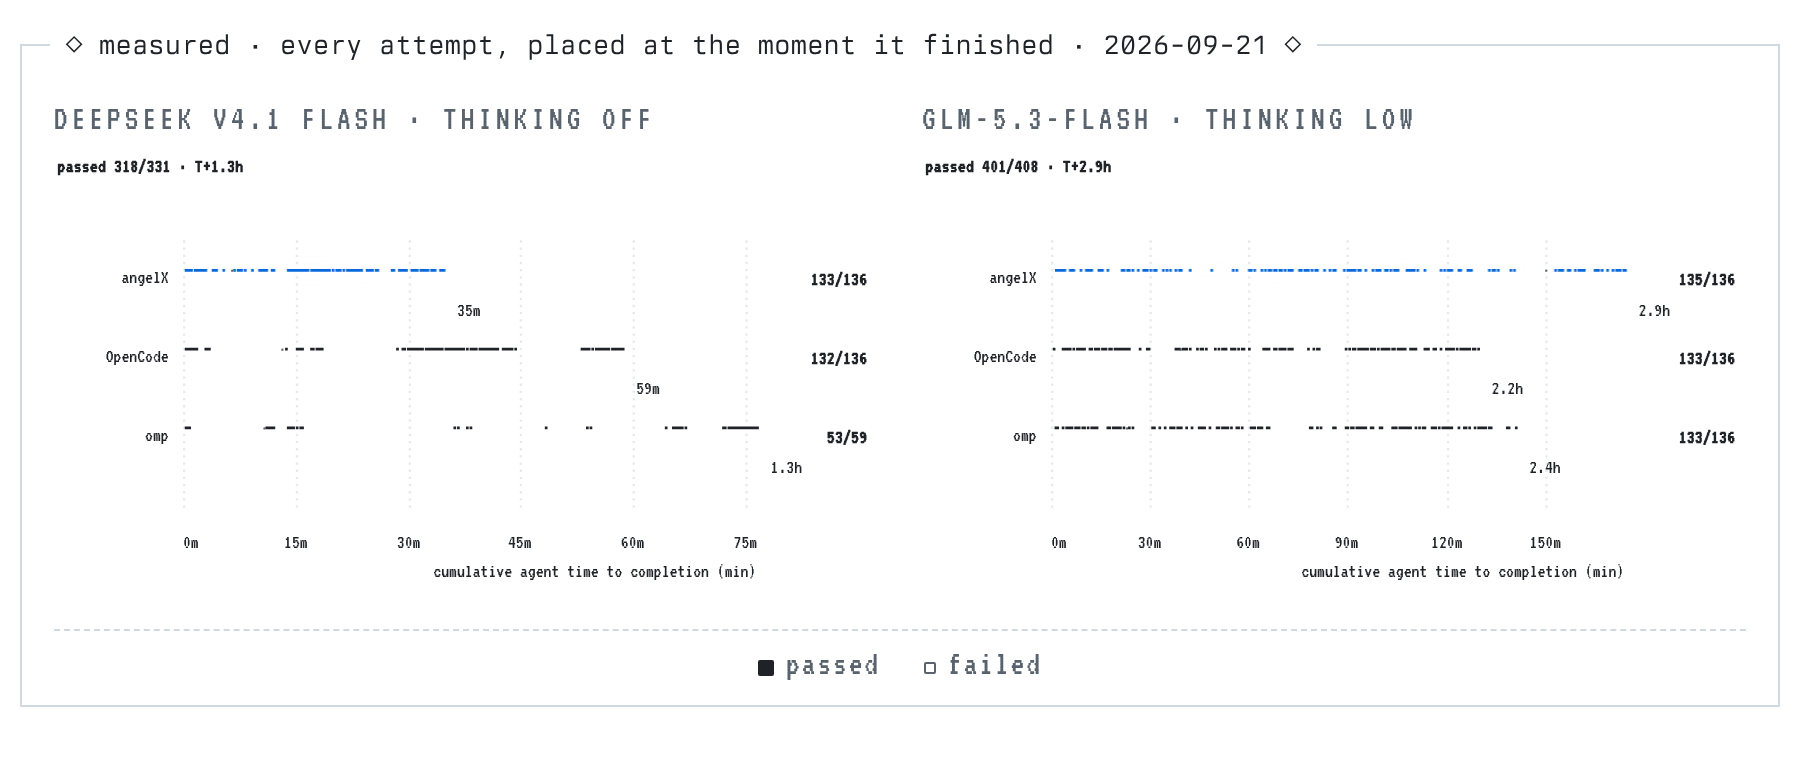
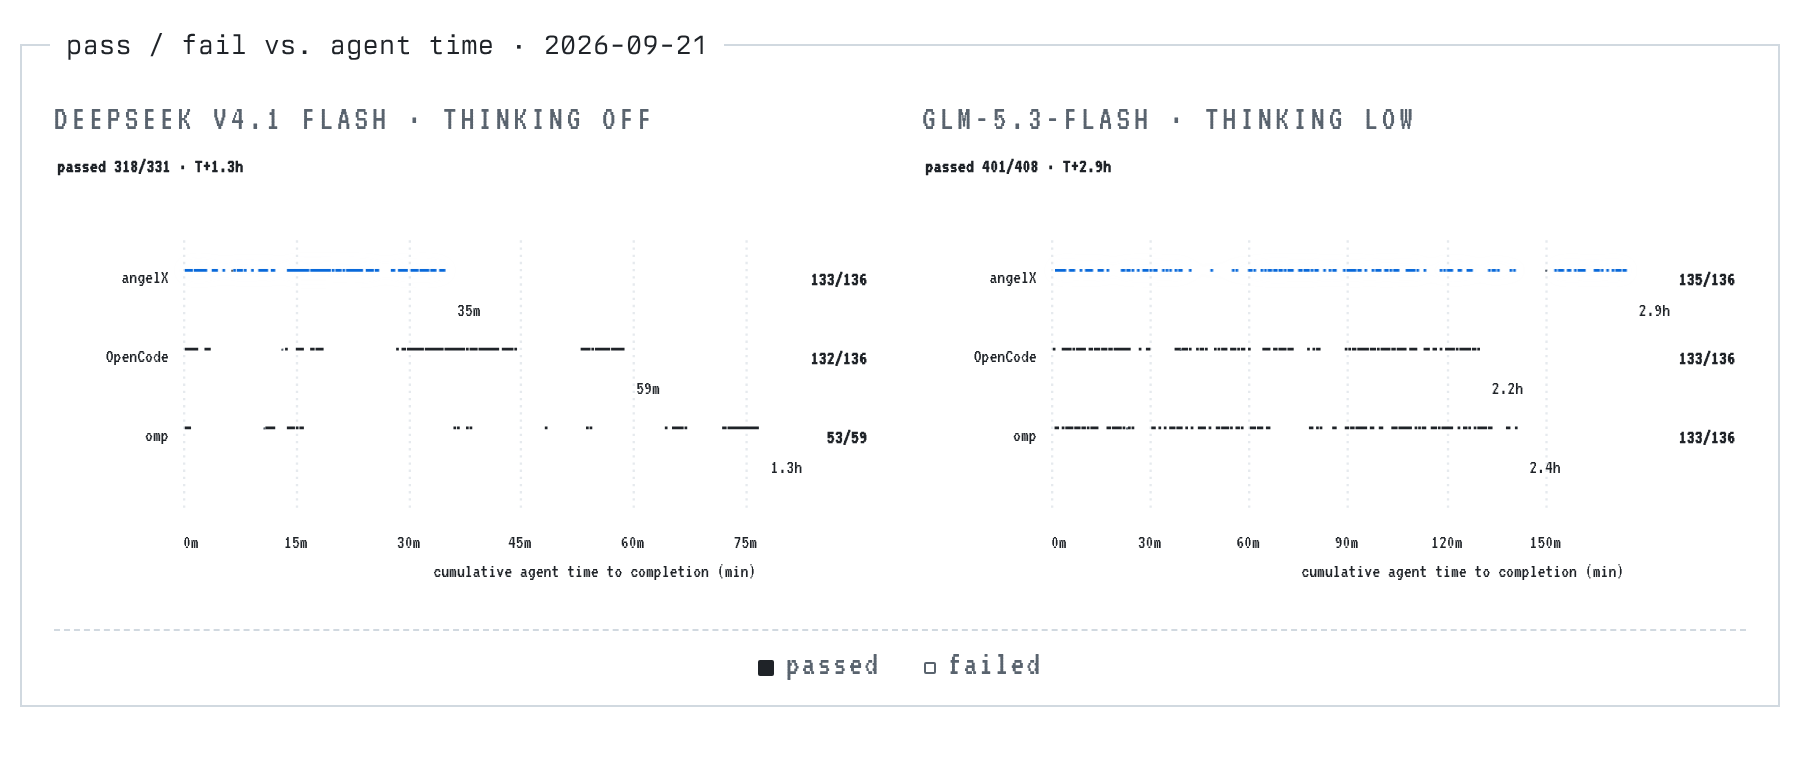
docs(benchmark): plain wording for benchmark copy and chart titles
Wording only; no numbers changed. Rename the race chart to solved, drop
ranking and decorative language from the telemetry note, and state that
the omp DeepSeek run was one run, paused once and resumed.

Changed region(s): [[0.0311, 0.0306, 0.7156, 0.0918]]

diff --git a/scripts/render_readme_graphs.py b/scripts/render_readme_graphs.py
@@ -3,7 +3,7 @@
 for README.md (<picture> + prefers-color-scheme).
 
 Generates:
-  docs/images/bench/race-{dark,light}.png
+  docs/images/bench/solved-{dark,light}.png
   docs/images/bench/score-{dark,light}.png
   docs/images/bench/bars-{dark,light}.png
   docs/images/bench/seconds-{dark,light}.png
@@ -53,24 +53,24 @@ THEMES = {
 
 FIGURE_DEFS = [
     {
-        "name": "race",
+        "name": "solved",
         "fig_id": "tv-race",
         "key": "race",
-        "title": "the race to 136",
+        "title": "solved vs. agent time",
         "legend": '<span><i class="ax"></i>angelX</span><span><i class="oc"></i>OpenCode</span><span><i class="om"></i>omp</span>',
     },
     {
         "name": "score",
         "fig_id": "tv-score",
         "key": "score",
-        "title": "every attempt, placed at the moment it finished",
+        "title": "pass / fail vs. agent time",
         "legend": '<span><i class="pass"></i>passed</span><span><i class="fail"></i>failed</span>',
     },
     {
         "name": "bars",
         "fig_id": "tv-bars",
         "key": "bars",
-        "title": "output per task",
+        "title": "output tokens and calls per task",
         "legend": '<span><i class="ax"></i>angelX</span><span><i class="oc"></i>OpenCode</span><span><i class="om"></i>omp</span>',
     },
     {
@@ -84,14 +84,14 @@ FIGURE_DEFS = [
         "name": "context",
         "fig_id": "tv-burn",
         "key": "burn",
-        "title": "context burned",
+        "title": "input tokens",
         "legend": '<span><i class="ax"></i>angelX</span><span><i class="oc"></i>OpenCode</span><span><i class="om"></i>omp</span>',
     },
     {
         "name": "cache",
         "fig_id": "tv-cache",
         "key": "cache",
-        "title": "cache",
+        "title": "cache hit rate",
         "legend": '<span><i class="ax"></i>angelX</span><span><i class="oc"></i>OpenCode</span><span><i class="om"></i>omp</span>',
     },
 ]
@@ -126,7 +126,7 @@ body{{width:{PAGE_W}px;padding:22px 10px 12px;box-sizing:border-box}}
 </style></head><body>
 <div class="bench">
   <figure class="tv" id="{fig_id}">
-    <figcaption class="tv-title">◇ measured · {title} · {DATE} ◇</figcaption>
+    <figcaption class="tv-title">{title} · {DATE}</figcaption>
     <div class="panels">
       <div><p class="panel-name">DEEPSEEK V4.1 FLASH · THINKING OFF</p>
         <svg id="{key}-deepseek" viewBox="0 0 460 262" role="img"></svg></div>

diff --git a/README.md b/README.md
@@ -34,7 +34,7 @@ cd angelX
 
 ### polyglot-v1 · 136 tasks · 2026-09-21
 
-136 repository-repair tasks (48 JS, 34 Python, 30 Rust, 24 C++) from the Aider polyglot set, one attempt per task, 600 s wall clock per attempt, pass/fail decided by each task's own tests. Wall is the median agent time per attempt. Tokens are totals across the cell.
+136 repository-repair tasks (48 JS, 34 Python, 30 Rust, 24 C++) from the Aider polyglot set. One attempt per task, 600 s limit, graded by each task's tests. Wall: median agent time per attempt. Tokens: totals per cell.
 
 | model | harness | solved | wall (median) | calls / task | input tokens | cache hit | output tokens |
 |---|---|---:|---:|---:|---:|---:|---:|
@@ -45,41 +45,41 @@ cd angelX
 | | OpenCode 1.18.31 | 133 / 136 | 38.9 s | 7.4 | 10.1 M | 85% | 179 k |
 | | oh-my-pi 18.2.4 | 133 / 136 | 37.7 s | 8.9 | 24.1 M | 90% | 203 k |
 
-* oh-my-pi on DeepSeek stopped after 93 tasks across its combined runs at its 200M-token budget cap (86 solved); the other five cells ran all 136.
+* oh-my-pi on DeepSeek reached its 200M-token budget cap after 93 tasks (86 solved). The run was paused once for debugging and resumed. The other five cells ran all 136.
 
-angelX runs a verification stage before it reports a task done; that is where its extra wall time on GLM goes. Raising the thinking level moves it further along the same trade: slower, more checked.
+angelX runs a verification step before reporting a task done. That step accounts for its extra wall time on GLM; higher thinking levels add more.
 
 <picture>
-  <source media="(prefers-color-scheme: dark)" srcset="docs/images/bench/race-dark.png">
-  <img alt="The race to 136: finished attempts against agent time for angelX, OpenCode and omp, on DeepSeek V4.1 Flash and GLM-5.3-Flash" src="docs/images/bench/race-light.png">
+  <source media="(prefers-color-scheme: dark)" srcset="docs/images/bench/solved-dark.png">
+  <img alt="Tasks solved vs. cumulative agent time" src="docs/images/bench/solved-light.png">
 </picture>
 
 <picture>
   <source media="(prefers-color-scheme: dark)" srcset="docs/images/bench/score-dark.png">
-  <img alt="Every attempt, placed at the moment it finished: pass and fail on cumulative agent time, for angelX, OpenCode and omp on both models" src="docs/images/bench/score-light.png">
+  <img alt="Pass/fail per attempt vs. cumulative agent time" src="docs/images/bench/score-light.png">
 </picture>
 
 <picture>
   <source media="(prefers-color-scheme: dark)" srcset="docs/images/bench/bars-dark.png">
-  <img alt="Output per task: tokens generated and model calls made per task, with stacked bars at the 2.5k cap, for angelX, OpenCode and omp on both models" src="docs/images/bench/bars-light.png">
+  <img alt="Output tokens and model calls per task, bars capped at 2.5k" src="docs/images/bench/bars-light.png">
 </picture>
 
 <picture>
   <source media="(prefers-color-scheme: dark)" srcset="docs/images/bench/seconds-dark.png">
-  <img alt="Seconds per attempt in run order with medians, for angelX, OpenCode and omp on both models" src="docs/images/bench/seconds-light.png">
+  <img alt="Seconds per attempt in run order, with medians" src="docs/images/bench/seconds-light.png">
 </picture>
 
 <picture>
   <source media="(prefers-color-scheme: dark)" srcset="docs/images/bench/context-dark.png">
-  <img alt="Input tokens burned across all attempts, for angelX, OpenCode and omp on both models" src="docs/images/bench/context-light.png">
+  <img alt="Cumulative input tokens, cached and uncached" src="docs/images/bench/context-light.png">
 </picture>
 
 <picture>
   <source media="(prefers-color-scheme: dark)" srcset="docs/images/bench/cache-dark.png">
-  <img alt="Running cache hit rate over the run, for angelX, OpenCode and omp on both models" src="docs/images/bench/cache-light.png">
+  <img alt="Cache hit rate over the run" src="docs/images/bench/cache-light.png">
 </picture>
 
-<sub>* All tests performed on the <a href="https://github.com/PrimeIntellect-ai/verifiers">Prime Intellect evaluators</a> (Verifiers v0.3.1) · polyglot-v1: 136 repository-repair tasks (48 JS, 34 Python, 30 Rust, 24 C++), one attempt per task, pass/fail decided by each task’s own tests · angelX 98d7340 · oh-my-pi 18.2.4 · opencode 1.18.31 · DeepSeek V4.1 Flash, thinking off · GLM-5.3-Flash, thinking low (the model’s floor) · temperature 0 · 8,192-token output cap · 600 s wall clock per attempt · fresh environment per attempt · 2026-09-21</sub>
+<sub>Evaluator: <a href="https://github.com/PrimeIntellect-ai/verifiers">Prime Intellect Verifiers</a> v0.3.1 · angelX 98d7340 · OpenCode 1.18.31 · oh-my-pi 18.2.4 · DeepSeek V4.1 Flash, thinking off · GLM-5.3-Flash, thinking low (lowest available) · temperature 0 · 8,192-token output cap · 600 s per attempt · fresh environment per attempt · 2026-09-21</sub>
 
 ## Research and credits
 
